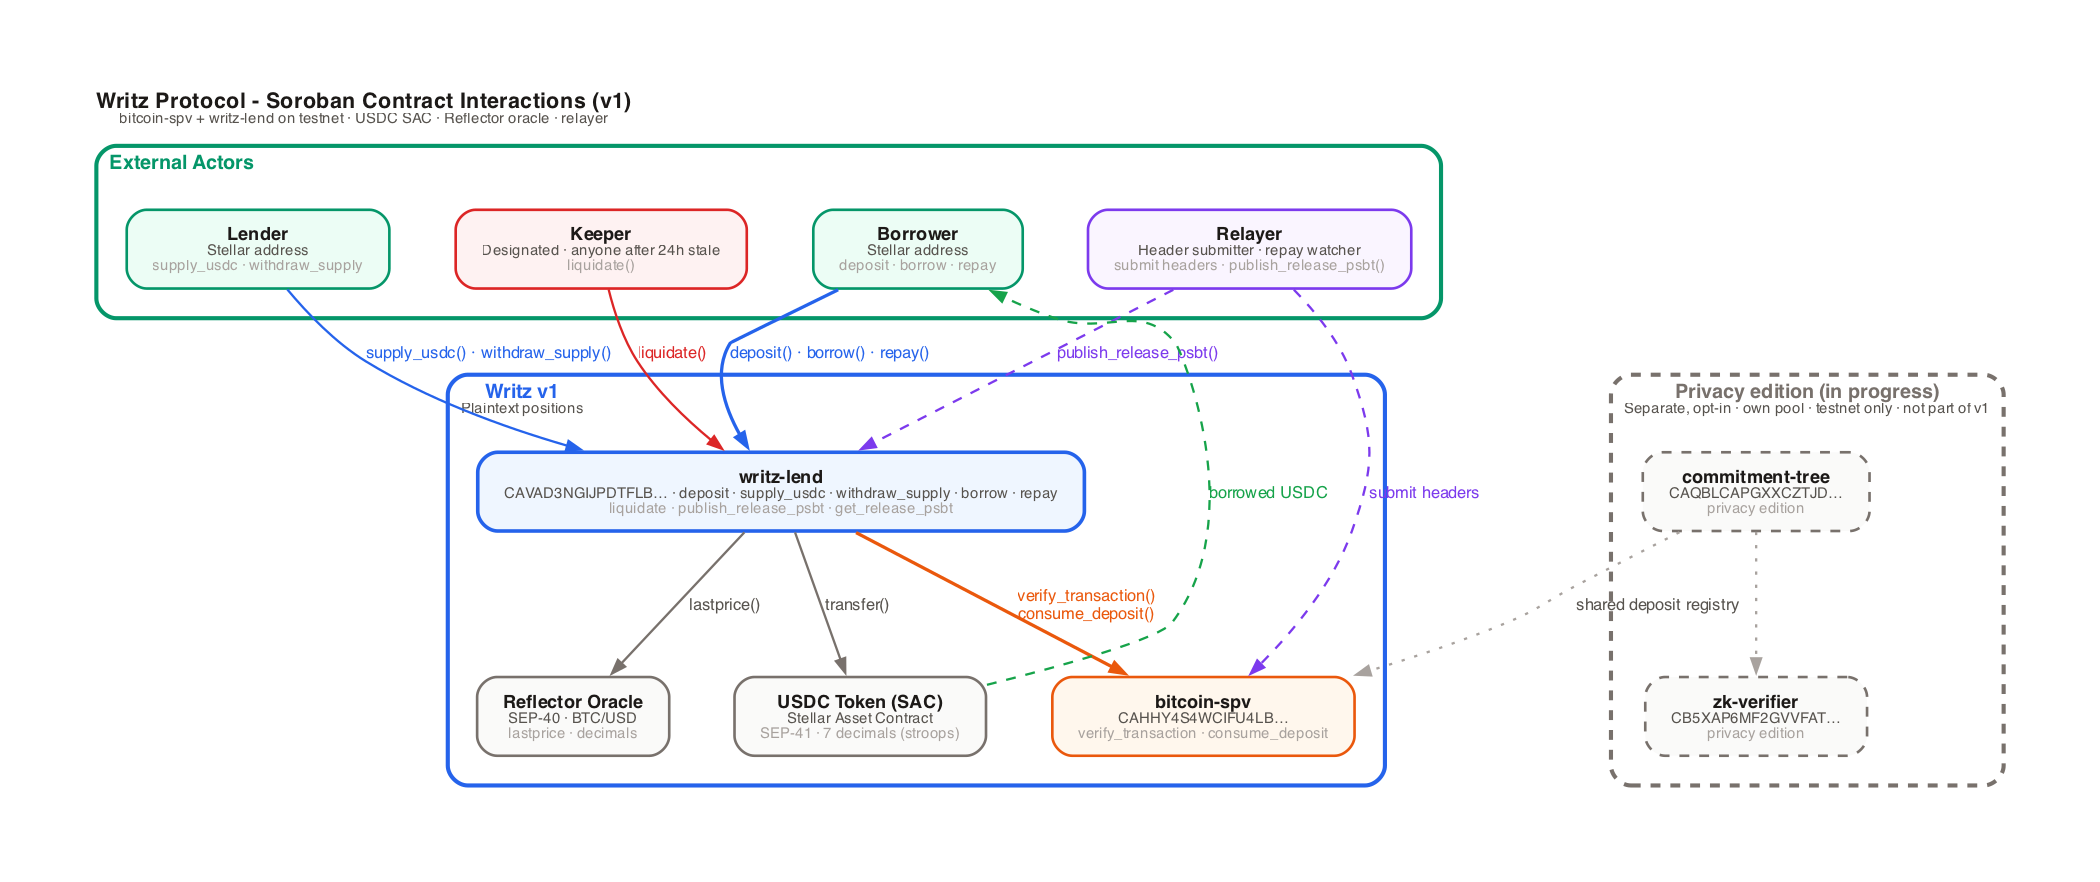
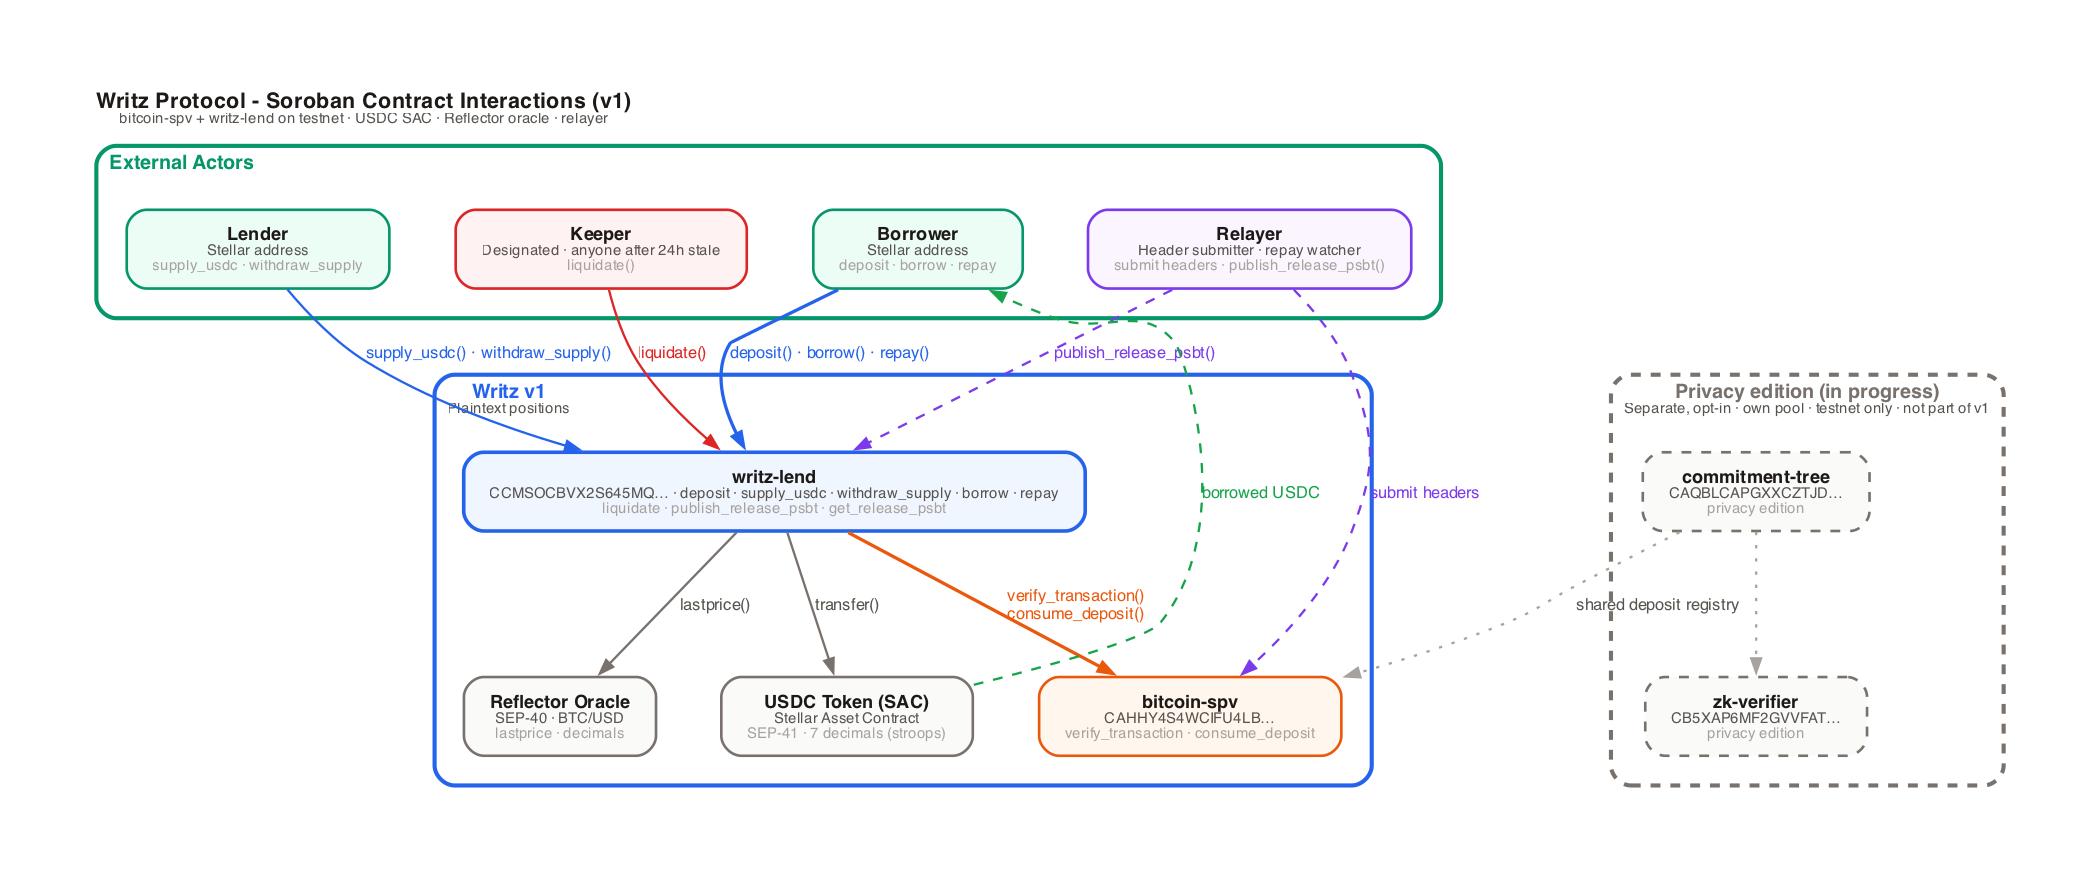
docs: record the writz-lend redeploy with its own relayer account

diff --git a/frontend/landing/src/features/landing/data/contracts.data.ts b/frontend/landing/src/features/landing/data/contracts.data.ts
@@ -6,7 +6,7 @@ export type LedgerEntry = { name: string; role: string; address: string };
 // and are not listed here.
 export const ledger: LedgerEntry[] = [
   { name: "bitcoin-spv", role: "Verifies Bitcoin transactions on Stellar", address: "CAHHY4S4WCIFU4LBSKBI3IP6A4QYR2COV6EACDEBXGPJFDWBJWGOMCLP" },
-  { name: "writz-lend", role: "Runs the loans", address: "CAVAD3NGIJPDTFLBLJQ5FMLT6UNFE3UFOI3RTQVOVS5RWAD5EDVI5EX4" },
+  { name: "writz-lend", role: "Runs the loans", address: "CCMSOCBVX2S645MQFFXJRHVHRWH2NY62KLOJXNDYFOJRYHIC47EO6ZZK" },
   { name: "Earn vault", role: "Holds Earn deposits", address: "CBMHGL7GGGHODEDDJ5H2LKJEFHJWBRSQUKOXMC4FKOFDZK5HBKW6PI2S" },
 ];
 

diff --git a/packages/sdk/src/networks.generated.ts b/packages/sdk/src/networks.generated.ts
@@ -12,7 +12,7 @@ export const testnet: NetworkPreset = {
   "spvCheckpointHeight": 325554,
   "contracts": {
     "bitcoinSpv": "CAHHY4S4WCIFU4LBSKBI3IP6A4QYR2COV6EACDEBXGPJFDWBJWGOMCLP",
-    "writzLend": "CAVAD3NGIJPDTFLBLJQ5FMLT6UNFE3UFOI3RTQVOVS5RWAD5EDVI5EX4",
+    "writzLend": "CCMSOCBVX2S645MQFFXJRHVHRWH2NY62KLOJXNDYFOJRYHIC47EO6ZZK",
     "usdc": "CBIELTK6YBZJU5UP2WWQEUCYKLPU6AUNZ2BQ4WWFEIE3USCIHMXQDAMA",
     "oracle": "CCYOZJCOPG34LLQQ7N24YXBM7LL62R7ONMZ3G6WZAAYPB5OYKOMJRN63"
   }

diff --git a/scripts/diagrams/07-contract-interactions.py b/scripts/diagrams/07-contract-interactions.py
@@ -38,7 +38,7 @@ with g.subgraph(name="cluster_actors") as a:
 with g.subgraph(name="cluster_v1") as v:
     v.attr(**cluster_attr("Writz v1", B_STELLAR, "Plaintext positions"))
     v.node("writz_lend",
-           hl("writz-lend", "CAVAD3NGIJPDTFLB… · deposit · supply_usdc · withdraw_supply · borrow · repay",
+           hl("writz-lend", "CCMSOCBVX2S645MQ… · deposit · supply_usdc · withdraw_supply · borrow · repay",
               "liquidate · publish_release_psbt · get_release_psbt"),
            fillcolor=F_STELLAR, color=B_STELLAR, penwidth="2.2")
     v.node("bitcoin_spv",

diff --git a/contracts/deployments/testnet.md b/contracts/deployments/testnet.md
@@ -8,7 +8,30 @@
 
 ---
 
-## `writz-lend` redeploy (2026-10-24)
+## `writz-lend` redeploy (2026-10-24, second)
+
[1 lines of base64/hex data omitted]
+
+| Field | Value |
+|---|---|
+| **Contract ID** | `CCMSOCBVX2S645MQFFXJRHVHRWH2NY62KLOJXNDYFOJRYHIC47EO6ZZK` |
[1 lines of base64/hex data omitted]
+| Deploy tx | [`ce4a65fa1f…`](https://stellar.expert/explorer/testnet/tx/ce4a65fa1f0af04627dee9fab8a26530c36d84d8d8c75ae22e2ff8a95b5b1aa3) |
+| `admin`, `keeper` | `writz-deployer` |
+| `relayer` | `GCNBKRZO5T24SF7EPLVUABSFO76TFWXJBIHKL4TH6ZAX7IJOFRQ5GWN4` (also `bitcoin-spv`'s header submitter, [`8b8751c23c…`](https://stellar.expert/explorer/testnet/tx/8b8751c23c873e58f85e929b95a9597a8cf6535abb8a2d0759bd51b438bde0fc)) |
+| `spv_contract` | `CAHHY4S4WCIFU4LBSKBI3IP6A4QYR2COV6EACDEBXGPJFDWBJWGOMCLP` |
+| `usdc_token` | `CBIELTK6YBZJU5UP2WWQEUCYKLPU6AUNZ2BQ4WWFEIE3USCIHMXQDAMA` |
+| `oracle` | `CCYOZJCOPG34LLQQ7N24YXBM7LL62R7ONMZ3G6WZAAYPB5OYKOMJRN63` (Reflector, external CEXs & DEXs) |
[1 lines of base64/hex data omitted]
+| `min_confirmations` | `1` (testnet) |
+| `min_deposit_satoshis` | `5,000` (testnet; 100,000 on mainnet) |
+| `max_total_borrowed` | 50,000 USDC (default) |
+| `bitcoin-spv` consumer | [`7dcae0b3fb…`](https://stellar.expert/explorer/testnet/tx/7dcae0b3fb96d7545ee2b9a5a5b69d499617180f071ed5604e099dcb3c93874b); `CAVAD3NG…` removed in [`543c16081d…`](https://stellar.expert/explorer/testnet/tx/543c16081dd2c253e8e10c2b0b1227b252189172dd68ad3f4ef100e62e5555a6) |
+| Supply moved | Withdrawn from `CAVAD3NG…` [`2fd055a2cc…`](https://stellar.expert/explorer/testnet/tx/2fd055a2cc64bc71ddb8b7b01363e95c4768568eec818e9dbeb004f661b5dc89), 1,000 USDC supplied here [`eb577b6191…`](https://stellar.expert/explorer/testnet/tx/eb577b6191134b6474d6024b354009cafe785e57b7778bcce678239e3208f141) |
+
[1 lines of base64/hex data omitted]
+
+## `writz-lend` redeploy (2026-10-24, first, superseded)
 
 `writz-lend` deployed alone from `feat/writz-lend-deposit-params` at `c1fdae0` (`cargo build --release --target wasm32v1-none --locked -p writz-lend`). The constructor now takes `min_confirmations` and `min_deposit_satoshis`. The 2026-10-23 instance had the mainnet values built in (6 confirmations, 100,000 sats), so a testnet deposit needed six Signet blocks while the app waited for one, and more BTC than a Signet faucet pays out. This instance runs 1 confirmation and 5,000 sats, which one faucet payout covers with room for the fee. It replaces `CDR3RWSGSA6ADQANZ55S4H6J7SW5O4LCRV3AIU2WQBLGWC3477GE5QXV`, which held no positions; its 1,000 USDC of supply moved here and `bitcoin-spv` no longer accepts it as a consumer.
 

diff --git a/docs/developers/integrate.md b/docs/developers/integrate.md
@@ -49,7 +49,7 @@ Until a package is published, `npm install @writz/sdk` and `cargo add writz-spv-
 | Bitcoin network | Signet |
 | Writz relayer | `https://api.testnet.writz.xyz` |
 | `bitcoin-spv` | `CAHHY4S4WCIFU4LBSKBI3IP6A4QYR2COV6EACDEBXGPJFDWBJWGOMCLP` |
-| `writz-lend` | `CAVAD3NGIJPDTFLBLJQ5FMLT6UNFE3UFOI3RTQVOVS5RWAD5EDVI5EX4` |
+| `writz-lend` | `CCMSOCBVX2S645MQFFXJRHVHRWH2NY62KLOJXNDYFOJRYHIC47EO6ZZK` |
 | Test USDC (Stellar Asset Contract for `USDC:GBBD47IF6LWK7P7MDEVSCWR7DPUWV3NY3DTQEVFL4NAT4AQH3ZLLFLA5`) | `CBIELTK6YBZJU5UP2WWQEUCYKLPU6AUNZ2BQ4WWFEIE3USCIHMXQDAMA` |
 | BTC price oracle read by `writz-lend` (Reflector) | `CCYOZJCOPG34LLQQ7N24YXBM7LL62R7ONMZ3G6WZAAYPB5OYKOMJRN63` |
 
@@ -166,7 +166,7 @@ console.log(result.isOk() ? result.unwrap() : result.unwrapErr());
 // { block_hash: <Buffer 9e 4d ...>, block_height: 327600, confirmations: 71, txid: <Buffer b1 18 ...> }
 ```
 
-The same command generates a client for `writz-lend` (`--contract-id CAVAD3NGIJPDTFLBLJQ5FMLT6UNFE3UFOI3RTQVOVS5RWAD5EDVI5EX4`). Generate bindings from the deployed contract ID, not from the source on `main`: the source can be ahead of what is deployed.
+The same command generates a client for `writz-lend` (`--contract-id CCMSOCBVX2S645MQFFXJRHVHRWH2NY62KLOJXNDYFOJRYHIC47EO6ZZK`). Generate bindings from the deployed contract ID, not from the source on `main`: the source can be ahead of what is deployed.
 
 ## 5. From your Soroban contract
 
@@ -226,7 +226,7 @@ The complete contract, with tests, is [`examples/spv-payment-check`](https://git
 ## 6. Read the Writz lending pool
 
 ```bash
-LEND=CAVAD3NGIJPDTFLBLJQ5FMLT6UNFE3UFOI3RTQVOVS5RWAD5EDVI5EX4
+LEND=CCMSOCBVX2S645MQFFXJRHVHRWH2NY62KLOJXNDYFOJRYHIC47EO6ZZK
 stellar contract invoke --id $LEND --network testnet --source-account $READER --send=no -- get_protocol_state
 stellar contract invoke --id $LEND --network testnet --source-account $READER --send=no -- get_borrow_rate_bp
 stellar contract invoke --id $LEND --network testnet --source-account $READER --send=no -- get_supply_balance --lender $READER

diff --git a/AGENTS.md b/AGENTS.md
@@ -9,7 +9,7 @@ Use only these values; anything not listed here or in the linked pages does not 
 - Stellar network: testnet, passphrase `Test SDF Network ; September 2015`, RPC `https://soroban-testnet.stellar.org`
 - Bitcoin network: signet (no mainnet, testnet3 or testnet4 verification)
 - `bitcoin-spv`: `CAHHY4S4WCIFU4LBSKBI3IP6A4QYR2COV6EACDEBXGPJFDWBJWGOMCLP`
-- `writz-lend`: `CAVAD3NGIJPDTFLBLJQ5FMLT6UNFE3UFOI3RTQVOVS5RWAD5EDVI5EX4`
+- `writz-lend`: `CCMSOCBVX2S645MQFFXJRHVHRWH2NY62KLOJXNDYFOJRYHIC47EO6ZZK`
 - Test USDC (SAC): `CBIELTK6YBZJU5UP2WWQEUCYKLPU6AUNZ2BQ4WWFEIE3USCIHMXQDAMA`
 - Relayer: `https://api.testnet.writz.xyz`, proof route `GET /spv-proof/:txid?confirmations=N`
 - Main primitive: `verify_transaction(block_hash: BytesN<32>, merkle_proof: Vec<BytesN<32>>, tx_index: u32, raw_tx: Bytes, min_confirmations: u32) -> Result<SpvVerificationResult, SPVError>`, where `SpvVerificationResult` is `{ txid, block_hash, block_height, confirmations }`

diff --git a/docs/developers/for-ai-agents.md b/docs/developers/for-ai-agents.md
@@ -27,7 +27,7 @@ SOROBAN_RPC_URL        https://soroban-testnet.stellar.org
 BITCOIN_NETWORK        signet
 RELAYER_URL            https://api.testnet.writz.xyz
 BITCOIN_SPV_ID         CAHHY4S4WCIFU4LBSKBI3IP6A4QYR2COV6EACDEBXGPJFDWBJWGOMCLP
-WRITZ_LEND_ID          CAVAD3NGIJPDTFLBLJQ5FMLT6UNFE3UFOI3RTQVOVS5RWAD5EDVI5EX4
+WRITZ_LEND_ID          CCMSOCBVX2S645MQFFXJRHVHRWH2NY62KLOJXNDYFOJRYHIC47EO6ZZK
 TEST_USDC_SAC          CBIELTK6YBZJU5UP2WWQEUCYKLPU6AUNZ2BQ4WWFEIE3USCIHMXQDAMA   (USDC:GBBD47IF6LWK7P7MDEVSCWR7DPUWV3NY3DTQEVFL4NAT4AQH3ZLLFLA5, 7 decimals)
 SPV_CHECKPOINT_HEIGHT  325554   (signet; only later blocks can be proven)
 SOROBAN_SDK            soroban-sdk = "26"

diff --git a/docs/developers/contract-reference.md b/docs/developers/contract-reference.md
@@ -20,7 +20,7 @@ order and arguments).
 | `bitcoin-spv` | `CAHHY4S4WCIFU4LBSKBI3IP6A4QYR2COV6EACDEBXGPJFDWBJWGOMCLP` |
 | `zk-verifier` | `CB5XAP6MF2GVVFATFTVCKVEXUODWWRQP4B3QFDMRTM55REP7N2YMXEUD` |
 | `commitment-tree` | `CAQBLCAPGXXCZTJDAJLY7E4PTJYGR6CY4YWH4JSJKFXYIHW3GANP6RFM` |
-| `writz-lend` | `CAVAD3NGIJPDTFLBLJQ5FMLT6UNFE3UFOI3RTQVOVS5RWAD5EDVI5EX4` |
+| `writz-lend` | `CCMSOCBVX2S645MQFFXJRHVHRWH2NY62KLOJXNDYFOJRYHIC47EO6ZZK` |
 
 These are the instances from the coordinated redeploy (#177, 2026-10-11) and
 run the interfaces documented here. See `contracts/deployments/testnet.md`.

diff --git a/README.md b/README.md
@@ -43,7 +43,7 @@ But a few months ago, it was a whitepaper. Version 1.0 (July 2026) is at [writz.
 | Contract | Address | WASM | Tests |
 |---|---|---|---|
 | `bitcoin-spv` | `CAHHY4S4WCIFU4LBSKBI3IP6A4QYR2COV6EACDEBXGPJFDWBJWGOMCLP` | 12.0 KB | 49 |
-| `writz-lend` | `CAVAD3NGIJPDTFLBLJQ5FMLT6UNFE3UFOI3RTQVOVS5RWAD5EDVI5EX4` | 78.8 KB | 118 |
+| `writz-lend` | `CCMSOCBVX2S645MQFFXJRHVHRWH2NY62KLOJXNDYFOJRYHIC47EO6ZZK` | 78.8 KB | 118 |
 
 The privacy edition's contracts are also deployed on testnet, separately from the protocol (see [Privacy edition](#privacy-edition-in-progress)):
 

diff --git a/docs/how-it-works/stellar-side.md b/docs/how-it-works/stellar-side.md
@@ -67,7 +67,7 @@ pub fn get_release_psbt(txid: BytesN<32>) -> Option<Bytes>
 
 **Events emitted** (topic strings, matching `contracts/contracts/writz-lend/src/events.rs` exactly): `deposit`, `borrow`, `repay`, `repay_full` (emitted instead of `repay` when a repayment fully closes the debt), `liquidate`, `supply`, `withdraw`, `paused_set`, `oracle_set`.
 
-**Deployed:** `CAVAD3NGIJPDTFLBLJQ5FMLT6UNFE3UFOI3RTQVOVS5RWAD5EDVI5EX4`
+**Deployed:** `CCMSOCBVX2S645MQFFXJRHVHRWH2NY62KLOJXNDYFOJRYHIC47EO6ZZK`
 
 ---
 

diff --git a/docs/README.md b/docs/README.md
@@ -86,7 +86,7 @@ Writz is a trustless Bitcoin lending protocol on Stellar. Lock real BTC. Borrow 
 | Contract | Address |
 |---|---|
 | `bitcoin-spv` | `CAHHY4S4WCIFU4LBSKBI3IP6A4QYR2COV6EACDEBXGPJFDWBJWGOMCLP` |
-| `writz-lend` | `CAVAD3NGIJPDTFLBLJQ5FMLT6UNFE3UFOI3RTQVOVS5RWAD5EDVI5EX4` |
+| `writz-lend` | `CCMSOCBVX2S645MQFFXJRHVHRWH2NY62KLOJXNDYFOJRYHIC47EO6ZZK` |
 
 The [privacy edition (in progress)](/how-it-works/privacy-edition) has its own testnet contracts, which `writz-lend` never calls:
 
